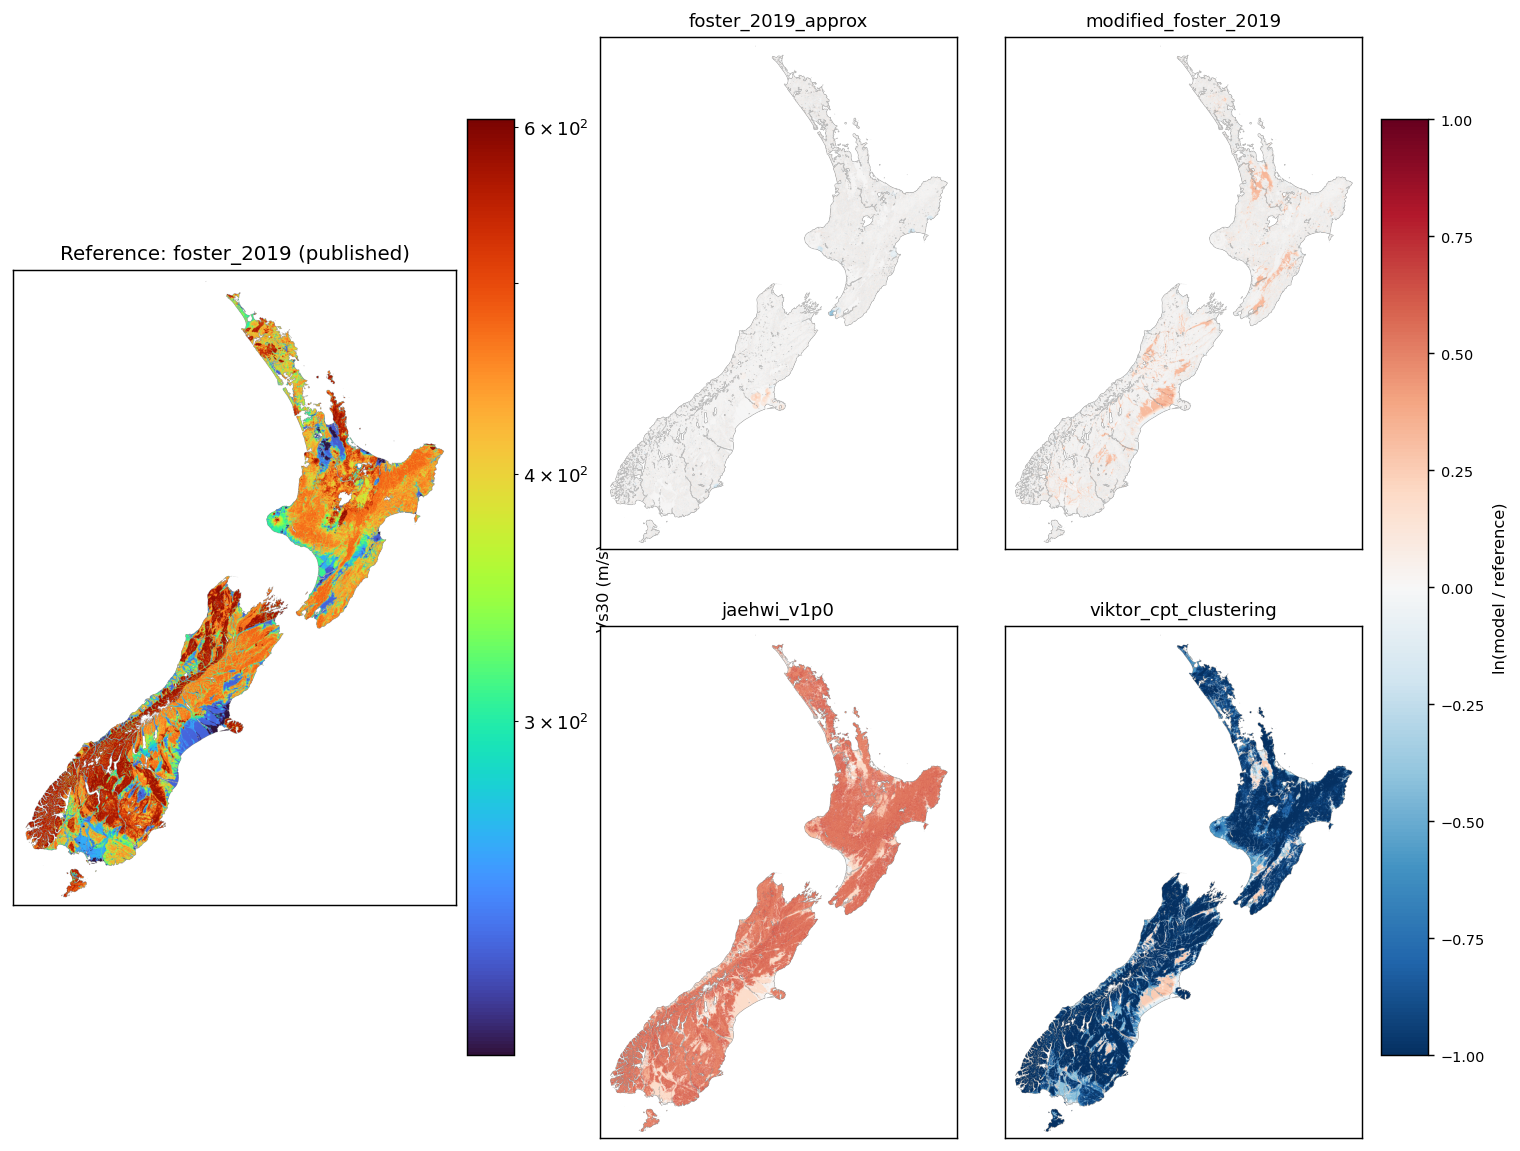
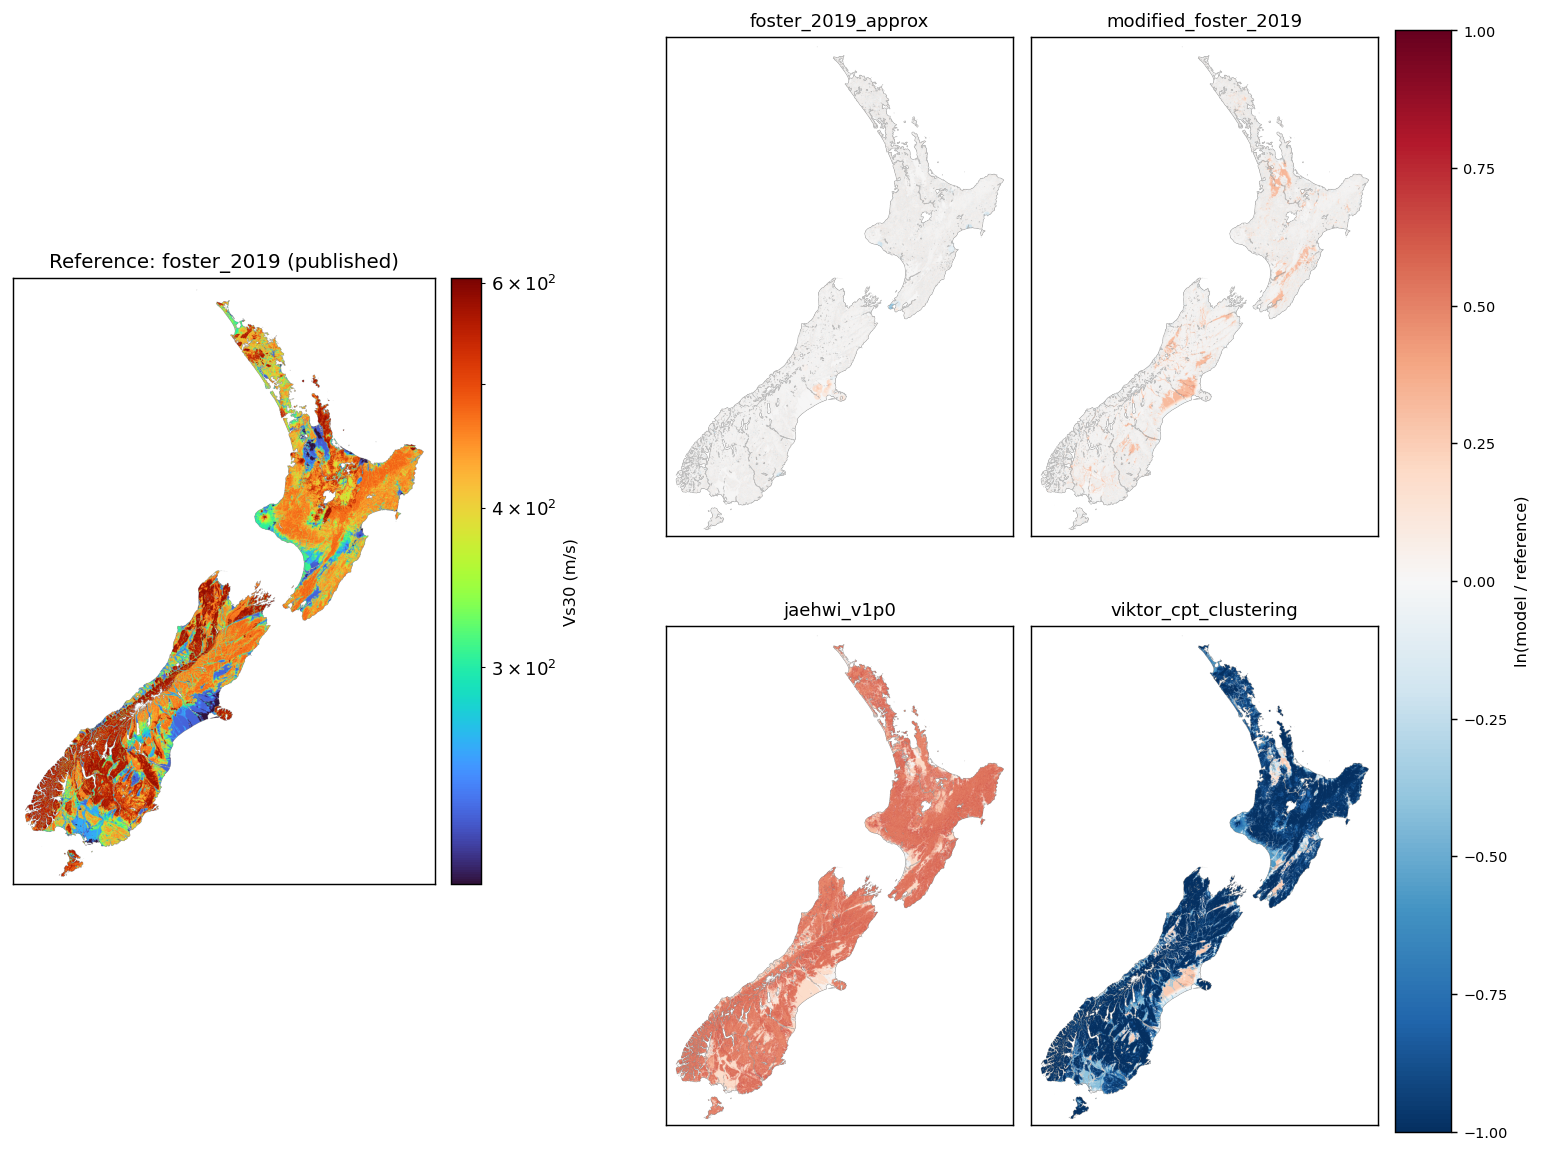
docs(wiki): match composite colourbar heights to their panels
- Split the composite into a nested gridspec so the outer wspace between
  the reference column and the 2x2 diff block gives the reference
  colourbar's "Vs30 (m/s)" label horizontal room (was previously clipped
  by the diff panels).
- Drop the reference colourbar shrink to 0.55 so it matches the
  equal-aspect image's displayed height instead of the much taller axis
  slot.
- Bump the shared diff colourbar shrink to 1.0 so it spans the full
  height of the 2x2 panels rather than stopping short.

diff --git a/dev/scripts/generators/render_example_model_maps.py b/dev/scripts/generators/render_example_model_maps.py
@@ -129,11 +129,14 @@ def render_composite(
     diffs: dict[str, np.ma.MaskedArray],
 ) -> Path:
     fig = plt.figure(figsize=(15, 11), dpi=130)
-    gs = fig.add_gridspec(
-        2, 3, width_ratios=[1.15, 1, 1], wspace=0.05, hspace=0.15
-    )
+    # Outer layout separates the reference column from the 2x2 diff block so
+    # the reference colourbar + "Vs30 (m/s)" label has horizontal room and
+    # isn't clipped by the diff panels. Inner gridspec keeps the four diff
+    # panels visually tight.
+    outer = fig.add_gridspec(1, 2, width_ratios=[1.2, 2.0], wspace=0.2)
+    inner = outer[0, 1].subgridspec(2, 2, wspace=0.05, hspace=0.15)
 
-    ax_ref = fig.add_subplot(gs[:, 0])
+    ax_ref = fig.add_subplot(outer[0, 0])
     ref_norm = reference_norm(ref)
     im_ref = ax_ref.imshow(
         ref, cmap=REF_CMAP, norm=ref_norm, extent=ref_extent, origin="upper"
@@ -142,7 +145,10 @@ def render_composite(
     ax_ref.set_xticks([])
     ax_ref.set_yticks([])
     ax_ref.set_aspect("equal")
-    cbar_ref = fig.colorbar(im_ref, ax=ax_ref, shrink=0.85, pad=0.02)
+    # Shrink matches the colourbar to the image's displayed height: the ref
+    # axis slot is ~2x taller than its equal-aspect image (slot height ≈
+    # 8.5", image height ≈ 4.7" at the current figsize).
+    cbar_ref = fig.colorbar(im_ref, ax=ax_ref, shrink=0.55, pad=0.03)
     cbar_ref.set_label("Vs30 (m/s)", fontsize=9)
 
     diff_norm = mcolors.Normalize(
@@ -151,7 +157,7 @@ def render_composite(
     diff_axes = []
     for idx, (name, diff) in enumerate(diffs.items()):
         row, col = divmod(idx, 2)
-        ax = fig.add_subplot(gs[row, 1 + col])
+        ax = fig.add_subplot(inner[row, col])
         im = ax.imshow(
             diff, cmap=DIFF_CMAP, norm=diff_norm, extent=ref_extent, origin="upper"
         )
@@ -161,11 +167,14 @@ def render_composite(
         ax.set_aspect("equal")
         diff_axes.append((ax, im))
 
+    # Each diff image fills its square slot vertically (data aspect > slot
+    # aspect), so shrink=1.0 makes the shared colourbar match the panel
+    # heights exactly.
     cbar_diff = fig.colorbar(
         diff_axes[0][1],
         ax=[ax for ax, _ in diff_axes],
         orientation="vertical",
-        shrink=0.85,
+        shrink=1.0,
         pad=0.02,
     )
     cbar_diff.set_label("ln(model / reference)", fontsize=9)
